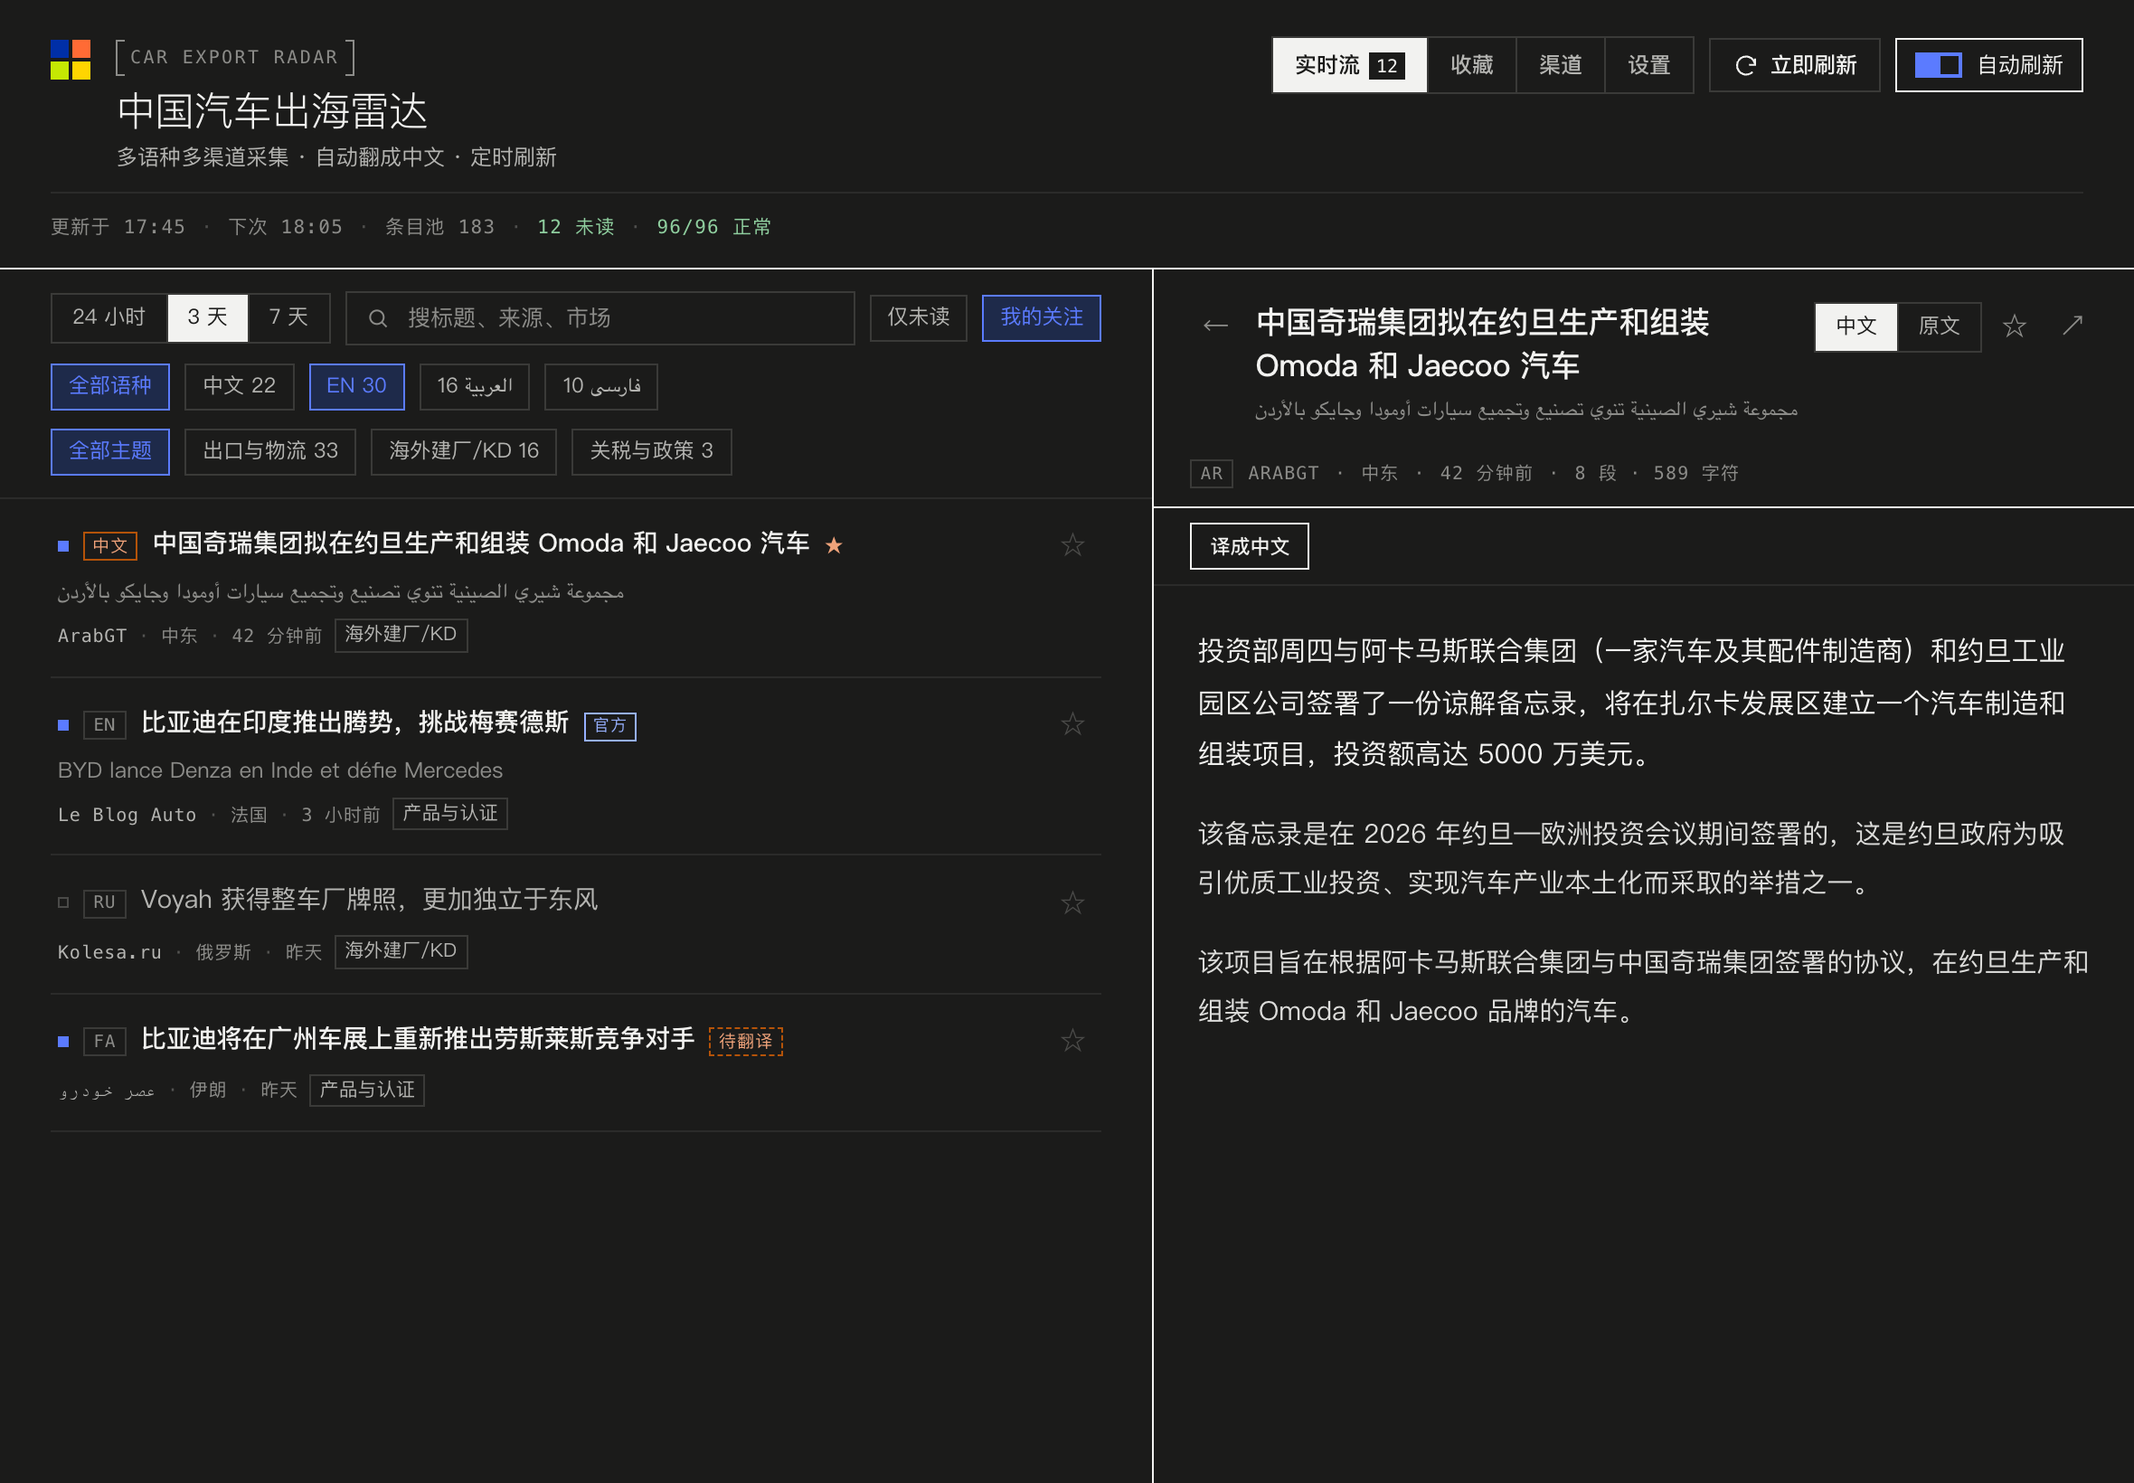
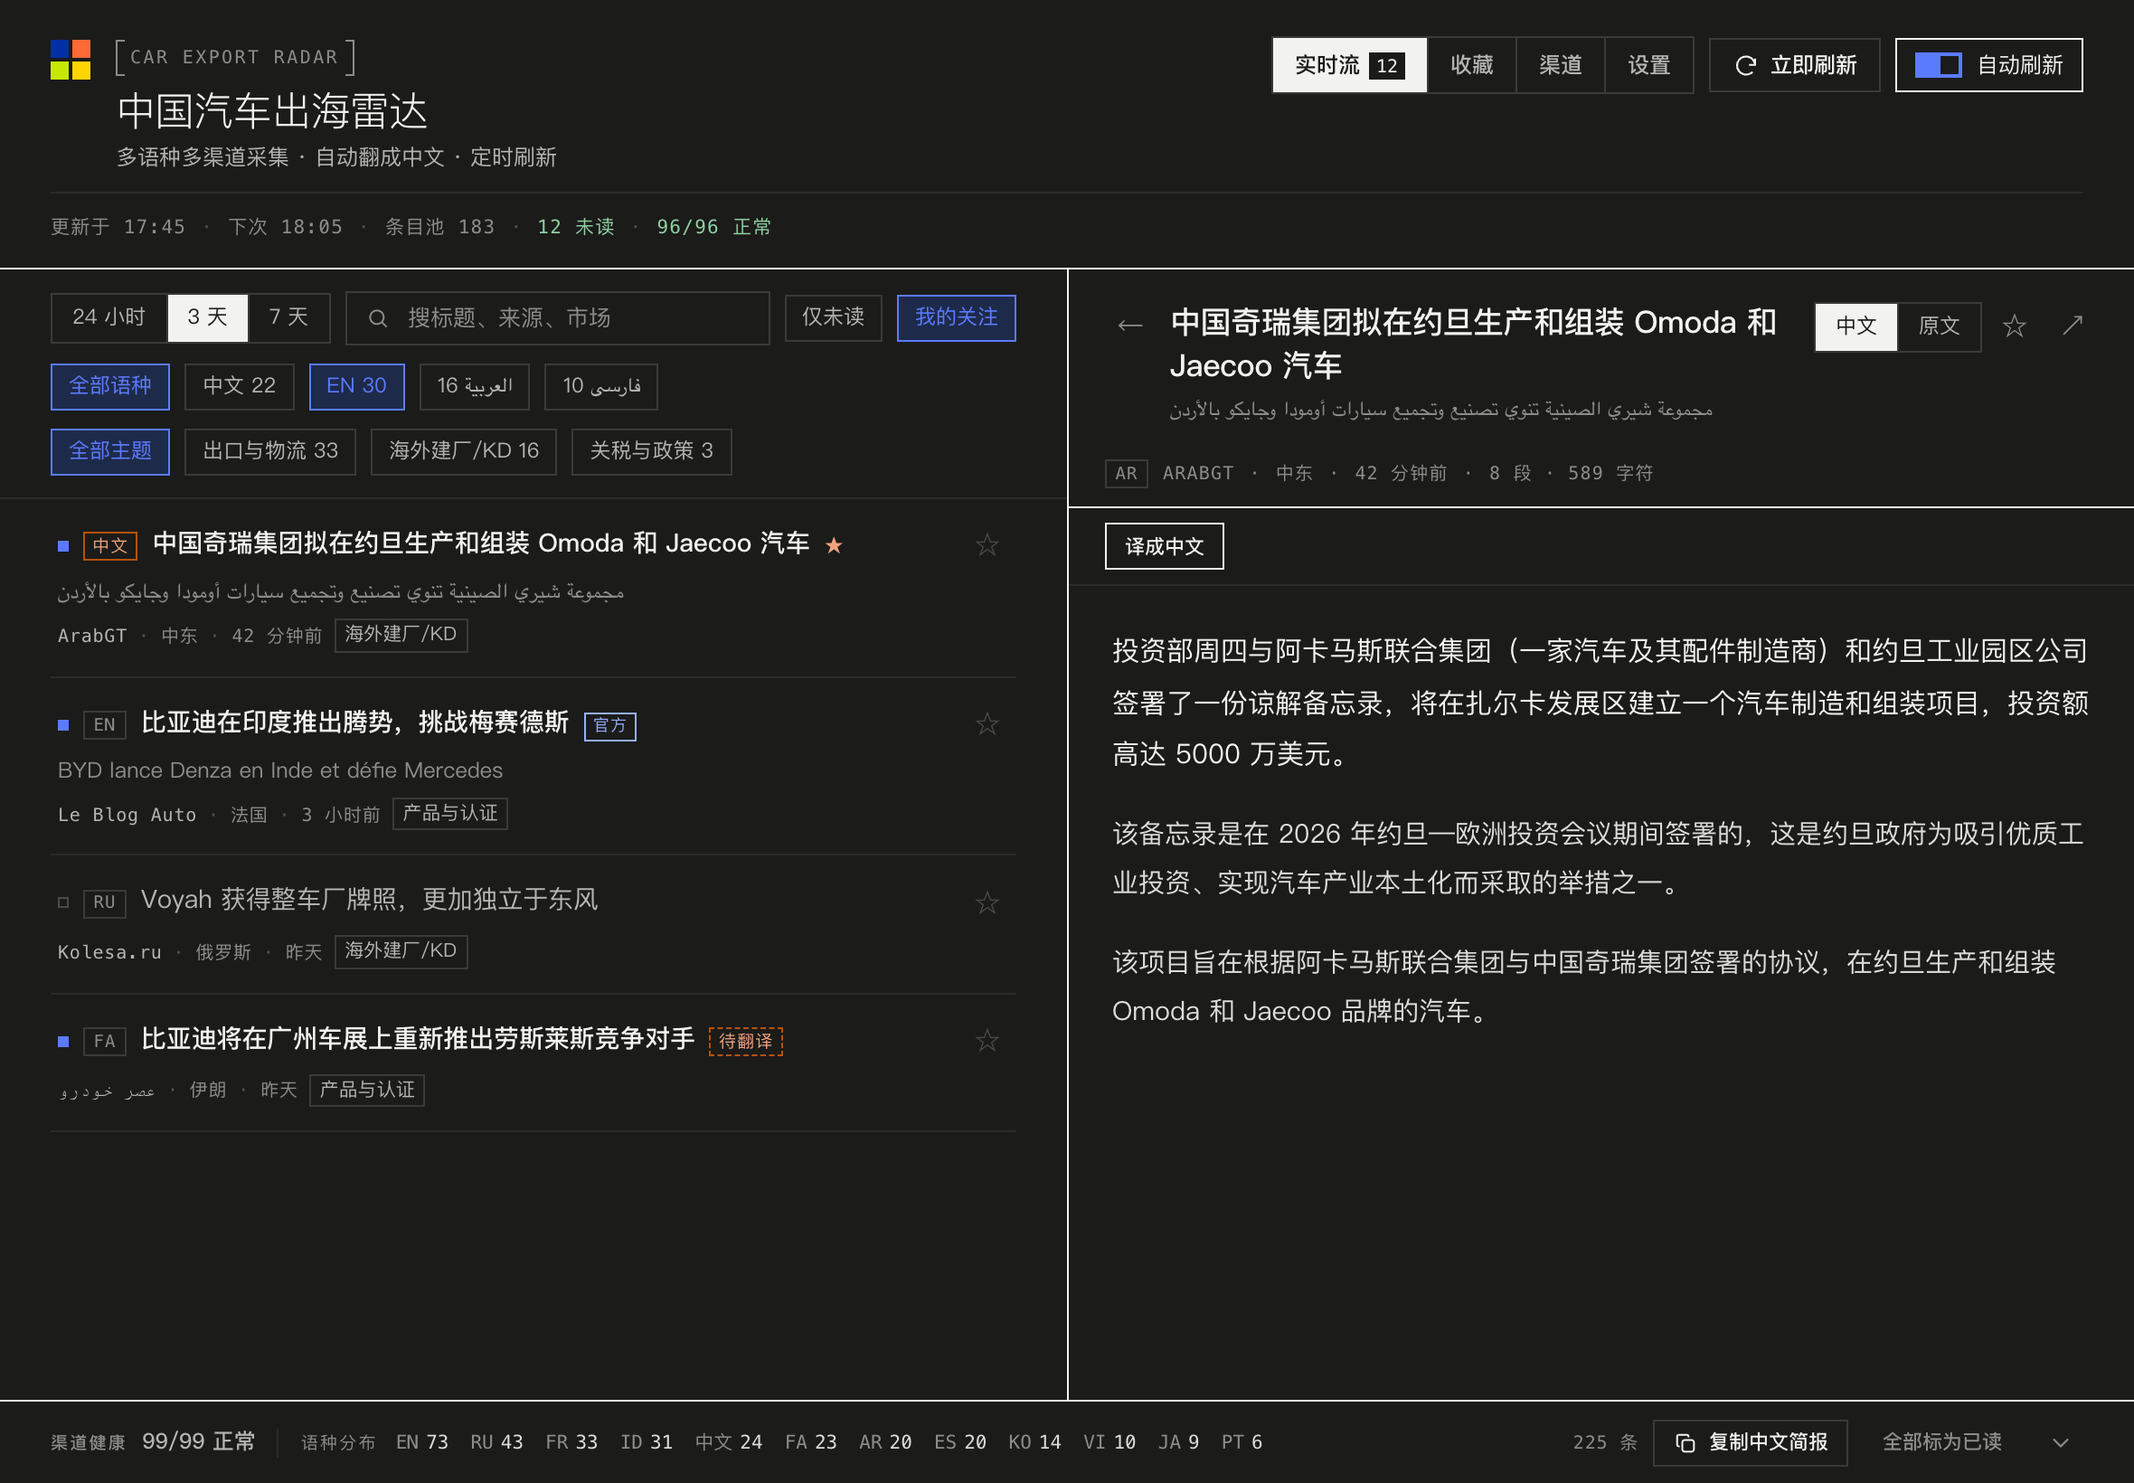
style: 去掉中间栏，状态信息挪到底部可收起
- 布局改两栏（列表 + 阅读器），删除右栏
- 底部状态栏：渠道健康 / 语种分布 / 条数 / 复制简报 / 全部标为已读
- 收起后只留一行（健康 + 前三个语种 + 展开），偏好存 localStorage
- 渠道失败时状态变橙，点击弹出失败清单
- 更新浅色/深色预览

diff --git a/client.js b/client.js
@@ -347,6 +347,7 @@ window.__ModuleLoader__.load({
           el('path', { key: 'a', d: 'M12 4v12m0 0 4.5-4.5M12 16l-4.5-4.5' }),
           el('path', { key: 'b', d: 'M4.5 15v3.5A1.5 1.5 0 0 0 6 20h12a1.5 1.5 0 0 0 1.5-1.5V15' }),
         ],
+        chevron: el('path', { key: 'a', d: 'm6 9.5 6 6 6-6' }),
         alert: [
           el('path', { key: 'a', d: 'M12 4.5 21 19.5H3z' }),
           el('path', { key: 'b', d: 'M12 10v4.2M12 17.2v.1' }),
@@ -786,46 +787,55 @@ window.__ModuleLoader__.load({
                 : el('div', { className: 'aer-state-block' }, el('p', null, t('empty')))))
     }
 
-    function SideRail({ t, data, visible, onCopy, copied, onMarkAll, hasUnread }) {
-      const [healthOpen, setHealthOpen] = React.useState(() => {
-        try { return localStorage.getItem('aer.rail.health') === '1' } catch { return false }
+    function StatusBar({ t, data, visible, onCopy, copied, onMarkAll, hasUnread }) {
+      const [open, setOpen] = React.useState(() => {
+        try { return localStorage.getItem('aer.statusbar') !== '0' } catch { return true }
       })
+      const [failOpen, setFailOpen] = React.useState(false)
       if (!data) return null
       const langs = Object.entries(data.byLang || {}).sort((a, b) => b[1] - a[1])
-      const total = langs.reduce((sum, row) => sum + row[1], 0) || 1
       const failed = data.channelHealth?.failed || []
-      const toggleHealth = () => setHealthOpen((open) => {
-        const next = !open
-        try { localStorage.setItem('aer.rail.health', next ? '1' : '0') } catch { /* 忽略隐私模式写入失败 */ }
+      const ok = data.channelHealth?.ok ?? 0
+      const total = data.channelHealth?.total ?? 0
+      const healthText = failed.length ? fill(t('healthFail'), { n: failed.length }) : fill(t('healthOk'), { ok, total })
+      const toggle = () => setOpen((value) => {
+        const next = !value
+        try { localStorage.setItem('aer.statusbar', next ? '1' : '0') } catch { /* 隐私模式写不进去就算了 */ }
         return next
       })
-      return el('aside', { className: 'aer-rail' },
-        el('section', { className: 'aer-card' },
-          el('h2', null, t('langDist')),
-          el('ul', { className: 'aer-bars' }, langs.map(([code, count]) => el('li', { key: code },
-            el('span', { className: 'aer-bar-label' }, LANGS[code] || code),
-            el('span', { className: 'aer-bar' }, el('i', { style: { width: `${Math.max(4, Math.round((count / total) * 100))}%` } })),
-            el('span', { className: 'aer-bar-count' }, count))))),
-        el('section', { className: 'aer-card' },
-          el('div', { className: 'aer-card-head' },
-            el('h2', null, t('live')),
-            el('span', null, fill(t('count'), { n: visible }))),
-          el('button', { type: 'button', className: 'aer-btn is-wide', onClick: onCopy }, icon('copy', 15), el('span', null, copied ? t('copied') : t('copyDigest'))),
-          hasUnread ? el('button', { type: 'button', className: 'aer-btn is-wide is-quiet', onClick: onMarkAll }, t('markAllRead')) : null,
-          el('p', { className: 'aer-note' }, t('onlyTitles'))),
-        el('section', { className: 'aer-card aer-card-health' },
-          el('div', { className: 'aer-card-head' },
-            el('h2', null, t('health')),
-            el('button', {
-              type: 'button', className: 'aer-toggle', onClick: toggleHealth,
-              'aria-expanded': healthOpen, title: healthOpen ? t('collapse') : t('expand'),
-            }, healthOpen ? t('collapse') : t('expand'))),
-          el('p', { className: failed.length ? 'aer-health is-warn' : 'aer-health is-ok' },
-            failed.length ? fill(t('healthFail'), { n: failed.length }) : fill(t('healthOk'), { ok: data.channelHealth?.ok ?? 0, total: data.channelHealth?.total ?? 0 })),
-          healthOpen && failed.length
-            ? el('ul', { className: 'aer-fails' }, failed.slice(0, 6).map((row) => el('li', { key: row.name },
-              el('strong', null, row.name), row.error ? el('span', null, row.error) : null)))
-            : null))
+      if (!open) {
+        return el('div', { className: 'aer-statusbar is-collapsed' },
+          el('span', { className: failed.length ? 'aer-health is-warn is-mini' : 'aer-health is-ok is-mini' }, healthText),
+          el('span', { className: 'aer-status-rule' }),
+          el('span', { className: 'aer-status-mini' }, langs.slice(0, 3).map(([code, count]) => `${LANGS[code] || code} ${count}`).join(' · ')),
+          el('button', { type: 'button', className: 'aer-btn is-quiet is-mini', onClick: toggle, title: t('expand') },
+            icon('chevron', 13), el('span', null, t('expand'))))
+      }
+      return el('div', { className: 'aer-statusbar' },
+        el('button', {
+          type: 'button',
+          className: failed.length ? 'aer-status-health is-warn' : 'aer-status-health',
+          onClick: () => (failed.length ? setFailOpen((value) => !value) : undefined),
+          'aria-expanded': failOpen,
+          title: failed.length ? t('health') : healthText,
+        },
+          el('span', { className: 'aer-status-label' }, t('health')),
+          el('span', null, healthText)),
+        failOpen && failed.length
+          ? el('div', { className: 'aer-status-pop' },
+            el('ul', { className: 'aer-fails' }, failed.slice(0, 8).map((row) => el('li', { key: row.name },
+              el('strong', null, row.name), row.error ? el('span', null, row.error) : null))))
+          : null,
+        el('span', { className: 'aer-status-rule' }),
+        el('div', { className: 'aer-status-group' },
+          el('span', { className: 'aer-status-label' }, t('langDist')),
+          el('div', { className: 'aer-langrow' }, langs.map(([code, count]) => el('span', { className: 'aer-langitem', key: code },
+            LANGS[code] || code, el('b', null, count))))),
+        el('div', { className: 'aer-status-actions' },
+          el('span', { className: 'aer-status-mini' }, fill(t('count'), { n: visible })),
+          el('button', { type: 'button', className: 'aer-btn', onClick: onCopy }, icon('copy', 14), el('span', null, copied ? t('copied') : t('copyDigest'))),
+          hasUnread ? el('button', { type: 'button', className: 'aer-btn is-quiet', onClick: onMarkAll }, t('markAllRead')) : null,
+          el('button', { type: 'button', className: 'aer-icon-btn', onClick: toggle, title: t('collapse'), 'aria-expanded': open }, icon('chevron', 15))))
     }
 
     function ChannelsView({ t, data, onSaveFeeds, onSaveSocial, onSaveOfficial, onSaveWatch, onImport, importing, message }) {
@@ -1364,13 +1374,6 @@ window.__ModuleLoader__.load({
               ? el('p', { className: 'aer-foot-note is-warn' }, `${t('err')}: ${data.lastError}`)
               : null)
 
-      const rail = tab === 'feed'
-        ? el(SideRail, {
-          t, data, visible: filtered.length, onCopy: copyDigest, copied,
-          onMarkAll: markAllReadNow, hasUnread: Boolean(data?.unreadCount),
-        })
-        : null
-
       return el('div', { className: 'aer-root' },
         el('style', null, CSS),
         el(Header, {
@@ -1384,7 +1387,6 @@ window.__ModuleLoader__.load({
         }),
         el('div', { className: `aer-body ${showReader ? 'has-reader' : ''}` },
           body,
-          rail,
           showReader
             ? el(Reader, {
               t,
@@ -1397,7 +1399,13 @@ window.__ModuleLoader__.load({
               onFavorite: radar.toggleFavorite,
               translating,
             })
-            : null))
+            : null),
+        tab === 'feed'
+          ? el(StatusBar, {
+            t, data, visible: filtered.length, onCopy: copyDigest, copied,
+            onMarkAll: markAllReadNow, hasUnread: Boolean(data?.unreadCount),
+          })
+          : null)
     }
 
     function apply(ctx) {
@@ -1648,31 +1656,49 @@ window.__ModuleLoader__.load({
 .aer-open { margin-left: auto; display: inline-flex; color: var(--ink-3); opacity: 0; transition: opacity .15s; }
 .aer-item:hover .aer-open, .aer-item:focus-visible .aer-open { opacity: 1; }
 
-/* ---------- 右栏 ---------- */
-.aer-rail { flex: none; width: 268px; overflow-y: auto; padding: 16px 28px 28px 20px; display: flex; flex-direction: column; gap: 0; border-left: 1px solid var(--line-subtle); }
-.aer-card { padding: 14px 0 16px; border-bottom: 1px solid var(--line-subtle); }
-.aer-card:first-child { padding-top: 0; }
-.aer-card:last-child { border-bottom: 0; }
-.aer-card h2 { font-family: var(--font-mono); font-size: 10px; font-weight: 500; letter-spacing: .12em; text-transform: uppercase; color: var(--ink-3); padding-bottom: 6px; }
-.aer-card-head { display: flex; align-items: baseline; justify-content: space-between; gap: 8px; }
-.aer-card-head span { font-family: var(--font-mono); font-size: 10px; color: var(--ink-3); }
-.aer-card-head .aer-toggle { margin-left: auto; }
-.aer-card-health { padding-bottom: 4px; }
-.aer-card-health .aer-health { margin-top: 6px; }
-.aer-health { margin-top: 8px; font-size: 13px; font-weight: 500; }
-.aer-health.is-ok { color: var(--ok); }
-.aer-health.is-warn { color: var(--warn); }
-.aer-fails { margin-top: 8px; display: flex; flex-direction: column; gap: 6px; }
-.aer-fails li { font-size: 11px; line-height: 1.45; color: var(--ink-3); }
-.aer-fails strong { display: block; color: var(--ink-2); font-weight: 500; }
-.aer-bars { margin-top: 10px; display: flex; flex-direction: column; gap: 6px; }
-.aer-bars li { display: flex; align-items: center; gap: 8px; font-family: var(--font-mono); font-size: 10px; color: var(--ink-3); }
-.aer-bar-label { width: 44px; flex: none; overflow: hidden; text-overflow: ellipsis; white-space: nowrap; text-transform: uppercase; letter-spacing: .04em; }
-.aer-bar { flex: 1; height: 4px; background: var(--grey-2); overflow: hidden; }
-.aer-bar i { display: block; height: 100%; background: var(--accent); }
-.aer-bar-count { width: 22px; text-align: right; flex: none; }
-.aer-note { margin-top: 8px; font-size: 11px; line-height: 1.6; color: var(--ink-3); }
-.aer-setting-row { display: flex; align-items: center; gap: 10px; flex-wrap: wrap; margin-top: 10px; }
+/* ---------- 底部状态栏 ---------- */
+.aer-statusbar {
+  position: relative;
+  flex: none;
+  display: flex;
+  align-items: center;
+  gap: 12px;
+  min-height: 46px;
+  padding: 0 28px;
+  background: var(--paper);
+  border-top: 1px solid var(--ink);
+  overflow: hidden;
+}
+.aer-statusbar.is-collapsed { min-height: 30px; gap: 10px; }
+.aer-status-label { font-family: var(--font-mono); font-size: 9.5px; letter-spacing: .12em; text-transform: uppercase; color: var(--ink-3); flex: none; }
+.aer-status-health {
+  display: inline-flex; align-items: baseline; gap: 8px; flex: none;
+  padding: 4px 0; color: var(--ink-2); font-size: 12px; font-weight: 500;
+}
+.aer-status-health.is-warn { color: var(--warn); cursor: pointer; }
+.aer-status-health.is-warn:hover { text-decoration: underline; text-underline-offset: 2px; }
+.aer-status-rule { width: 1px; height: 16px; background: var(--line-subtle); flex: none; }
+.aer-status-group { display: flex; align-items: baseline; gap: 10px; min-width: 0; flex: 1 1 auto; }
+.aer-langrow { display: flex; align-items: baseline; gap: 12px; min-width: 0; overflow-x: auto; scrollbar-width: none; }
+.aer-langrow::-webkit-scrollbar { display: none; }
+.aer-langitem { font-family: var(--font-mono); font-size: 10.5px; color: var(--ink-3); white-space: nowrap; display: inline-flex; align-items: baseline; gap: 4px; }
+.aer-langitem b { font-weight: 500; color: var(--ink-body); }
+.aer-status-mini { font-family: var(--font-mono); font-size: 10px; letter-spacing: .04em; color: var(--ink-3); white-space: nowrap; }
+.aer-status-actions { margin-left: auto; display: flex; align-items: center; gap: 8px; flex: none; }
+.aer-status-actions .aer-btn { height: 26px; padding: 0 10px; font-size: 11px; }
+.aer-status-actions .aer-icon-btn { width: 26px; height: 26px; }
+.aer-statusbar.is-collapsed .aer-icon-btn svg { transform: rotate(180deg); }
+.aer-status-pop {
+  position: absolute; right: 28px; bottom: calc(100% + 1px); width: min(360px, 70vw);
+  background: var(--paper); border: 1px solid var(--ink); padding: 10px 14px; z-index: 6;
+  max-height: 40vh; overflow-y: auto;
+}
+.aer-health.is-mini { margin: 0; font-size: 11px; }
+.aer-btn.is-mini { height: 22px; padding: 0 8px; font-size: 10.5px; }
+.aer-fails { margin: 0; display: flex; flex-direction: column; gap: 6px; }
+.aer-fails li { font-size: 11px; line-height: 1.45; color: var(--ink-2); }
+.aer-fails strong { display: block; font-weight: 500; }
+.aer-fails span { color: var(--ink-3); }
 
 /* ---------- 渠道 / 设置 ---------- */
 .aer-channels, .aer-settings { flex: 1; min-height: 0; overflow-y: auto; padding: 20px 28px 32px; display: grid; grid-template-columns: repeat(auto-fit, minmax(320px, 1fr)); gap: 0 32px; align-content: start; background: var(--paper); }
@@ -1726,7 +1752,7 @@ window.__ModuleLoader__.load({
 .aer-lang.platform-threads { border-color: var(--ink-3); color: var(--ink-3); }
 
 /* ---------- 阅读器 ---------- */
-.aer-reader { flex: none; width: min(46%, 560px); min-width: 340px; display: flex; flex-direction: column; border-left: 1px solid var(--ink); background: var(--paper); }
+.aer-reader { flex: none; width: min(50%, 620px); min-width: 340px; display: flex; flex-direction: column; border-left: 1px solid var(--ink); background: var(--paper); }
 .aer-reader-head { flex: none; display: flex; align-items: flex-start; gap: 8px; padding: 18px 20px 10px; }
 .aer-reader-titles { flex: 1; min-width: 0; }
 .aer-reader-titles h2 { font-size: 17px; font-weight: 500; line-height: 1.4; letter-spacing: -.015em; }
@@ -1761,12 +1787,16 @@ window.__ModuleLoader__.load({
 .aer-foot-note.is-warn { color: var(--warn); }
 
 @media (max-width: 1180px) {
-  .aer-rail { display: none; }
   .aer-channels { grid-template-columns: 1fr; }
 }
 @media (max-width: 900px) {
   .aer-body.has-reader .aer-main { display: none; }
   .aer-reader { width: 100%; min-width: 0; border-left: 0; }
+}
+@media (max-width: 820px) {
+  .aer-statusbar { padding: 0 14px; gap: 8px; }
+  .aer-status-label { display: none; }
+  .aer-status-actions .aer-status-mini { display: none; }
 }
 @media (max-width: 720px) {
   .aer-head { padding: 14px; }

diff --git a/README.md b/README.md
@@ -54,7 +54,9 @@
 
 ![面板 · 深色](docs/ui-preview-dark.png)
 
-左侧栏点「中国汽车出海雷达」进入。四页：实时流 / 收藏 / 渠道 / 设置；点条目右侧开阅读器。深色跟随系统。
+左侧栏点「中国汽车出海雷达」进入。四页：实时流 / 收藏 / 渠道 / 设置；点条目右侧开阅读器，两栏布局，没有中间栏。
+
+底部一条状态栏放「渠道健康 / 语种分布 / 复制简报 / 全部标为已读」，可以点最右的下箭头收起成一行；有渠道失败时状态文字变橙，点它弹出失败清单。深色跟随系统。
 
 > 以上是按面板样式渲染的界面预览（静态），不是运行时截图。
 
